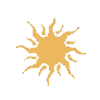
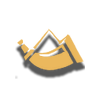
Deck builder: each card once with its count, and a Weather tab
As in The Witcher 3's deck builder:
- each card shows once, with an "x2" count: the copies in the deck, or in
  the collection the copies left to add. A card whose copies are all in
  the deck leaves the collection, so a hero already in the deck is no
  longer offered. The collection follows every deck edit, and neither
  list jumps back to the top after one.
- the weather cards get a tab of their own (the sun icon), before the
  other special cards (now under a horn icon, from The Witcher 3's horn
  art). The seventh tab is made from the specials' tab at start.
The autoplay checks the counts, the hero no longer offered, both tabs and
the 10-special limit through real clicks.

Changed region(s): [[0.15, 0.18, 0.87, 0.87], [0.15, 0.75, 0.18, 0.78]]

diff --git a/GwentCardGame/Assets/Scripts/DeckEdit/CollectionManager.cs b/GwentCardGame/Assets/Scripts/DeckEdit/CollectionManager.cs
@@ -4,6 +4,7 @@ using System.Collections.Generic;
 using Gwent.Rules;
 using TMPro;
 using UnityEngine;
+using UnityEngine.Events;
 using UnityEngine.UI;
 
 public class CollectionManager : MonoBehaviour
@@ -40,8 +41,13 @@ public class CollectionManager : MonoBehaviour
 
     public MiddleManager middleManager;
 
+    // The Witcher 3's filters: all cards, close, ranged, siege, heroes, weather, special cards
+    public const int WeatherTab = 5;
+    public const int SpecialTab = 6;
+
     IEnumerator Start()
     {
+        AddWeatherTab();
         ClearCardsArea();
         // DeckController loads everything in Awake; this only guards against a disabled controller
         yield return new WaitUntil(() => deckController.IsReady);
@@ -99,7 +105,11 @@ public class CollectionManager : MonoBehaviour
                 subtitle.text = "Heroes";
                 selected_row = "heroes";
                 break;
-            case 5:
+            case WeatherTab:
+                subtitle.text = "Weather";
+                selected_row = "weather";
+                break;
+            case SpecialTab:
                 subtitle.text = "Specials";
                 selected_row = "specials";
                 break;
@@ -131,13 +141,24 @@ public class CollectionManager : MonoBehaviour
         cardsArea.transform.DetachChildren();
     }
 
+    // The Witcher 3 shows each card once, with its count: the copies in the deck, or in the collection the copies
+    // left to add (a card whose copies are all in the deck leaves the collection)
     private void SetCardsArea(List<Card> cards_list)
     {
         ClearCardsArea();
+        bool deck = transform.CompareTag("Player");
+        Dictionary<int, int> in_deck = new Dictionary<int, int>();
+        foreach (int id in deckController.my_deck.Cards)
+            in_deck[id] = in_deck.TryGetValue(id, out int copies) ? copies + 1 : 1;
+        HashSet<int> shown = new HashSet<int>();
         foreach (Card card in cards_list)
         {
             // Bovine defense force cannot be added to a deck (it is summoned by the Cow)
-            if (card._id == CardIds.BovineDefenseForce)
+            if (card._id == CardIds.BovineDefenseForce || !shown.Add(card._id))
+                continue;
+            in_deck.TryGetValue(card._id, out int used);
+            int count = deck ? used : DeckRules.MaxCopies(card) - used;
+            if (count <= 0)
                 continue;
 
             GameObject instantiatedCard = Instantiate(CCardPrefab);
@@ -154,7 +175,63 @@ public class CollectionManager : MonoBehaviour
 
             instantiatedCard.GetComponent<Image>().sprite = SpriteCache.Load("Cards/List/591x380/" + card._id);
             instantiatedCard.transform.SetParent(cardsArea.transform, false);
+            AddCountBadge(instantiatedCard.transform, count);
         }
+    }
+
+    // "x2" near the bottom of the card, as in The Witcher 3: at the right of the art, just above the name strip
+    // (which it would cover on the left)
+    public const string CountBadge = "Count";
+
+    private static void AddCountBadge(Transform card, int count)
+    {
+        UITheme theme = UITheme.Current;
+        RectTransform badge = UIKit.Rect(CountBadge, card).Place(new Vector2(1, 0), new Vector2(-8, 70), new Vector2(50, 28), new Vector2(1, 0));
+        Image back = badge.gameObject.AddComponent<Image>();
+        back.sprite = theme.pill;
+        back.type = Image.Type.Sliced;
+        back.color = new Color(0.07f, 0.05f, 0.03f, 0.88f);
+        back.raycastTarget = false;
+        TextMeshProUGUI text = UIKit.Text(badge, "x" + count, UIKit.TextStyle.Caption, TextAlignmentOptions.Center);
+        text.rectTransform.Stretch(0, 0, 0, 1);
+        text.fontSize = 21;
+        text.color = theme.goldBright;
+        text.raycastTarget = false;
+    }
+
+    // The scene has six tabs, the specials last; The Witcher 3 gives the weather cards a tab of their own, before
+    // the specials. The specials' tab is copied for it, and the seven tabs share the menu's width.
+    private void AddWeatherTab()
+    {
+        if (currentSprites.Count > SpecialTab)
+            return;
+        Image special = currentSprites[WeatherTab];
+        Image weather = Instantiate(special.gameObject, special.transform.parent).GetComponent<Image>();
+        weather.name = "weatherBtn";
+        weather.transform.SetSiblingIndex(special.transform.GetSiblingIndex());
+        currentSprites.Insert(WeatherTab, weather);
+        idleSprites.Insert(WeatherTab, SpriteCache.Load("DeckEdit/CardsView/Menu/idle/weather"));
+        selectedSprites.Insert(WeatherTab, SpriteCache.Load("DeckEdit/CardsView/Menu/selected/weather"));
+        weather.sprite = idleSprites[WeatherTab];
+        OnClickSelects(weather.GetComponent<Button>(), WeatherTab);
+        OnClickSelects(special.GetComponent<Button>(), SpecialTab);
+
+        RectTransform first = (RectTransform)currentSprites[0].transform;
+        float left = first.anchoredPosition.x, right = ((RectTransform)special.transform).anchoredPosition.x;
+        for (int i = 0; i < currentSprites.Count; i++)
+        {
+            RectTransform tab = (RectTransform)currentSprites[i].transform;
+            tab.anchoredPosition = new Vector2(Mathf.Lerp(left, right, i / (float)(currentSprites.Count - 1)), tab.anchoredPosition.y);
+            tab.sizeDelta = new Vector2(90, 90);
+        }
+    }
+
+    private void OnClickSelects(Button button, int tab)
+    {
+        for (int i = 0; i < button.onClick.GetPersistentEventCount(); i++)
+            button.onClick.SetPersistentListenerState(i, UnityEventCallState.Off);
+        button.onClick.RemoveAllListeners();
+        button.onClick.AddListener(() => HandleClick(tab));
     }
 
     private void ResetScrolling()
@@ -171,8 +248,9 @@ public class CollectionManager : MonoBehaviour
 
         switch (selected_row)
         {
+            case "weather":
             case "specials":
-                List<Card> specials_list = deckController.GetSpecialCards(CardsToDisplay);
+                List<Card> specials_list = deckController.GetSpecialCards(CardsToDisplay).FindAll(card => (card.row == Rows.Weather) == (selected_row == "weather"));
                 specials_list.Sort((a, b) => a._id.CompareTo(b._id));
                 SetCardsArea(specials_list);
                 break;
@@ -273,6 +351,14 @@ public class CollectionManager : MonoBehaviour
         }
     }
 
+    // The collection counts the copies left to add: it follows the deck (where it is scrolled to stays)
+    private void RefreshCollection()
+    {
+        foreach (CollectionManager collection in FindObjectsByType<CollectionManager>())
+            if (collection != this && collection.CardsToDisplay != null)
+                collection.Select(collection.selectedTab, false);
+    }
+
     // Reference: Toggle On Value Changed
     public void ToggleNeutrals()
     {
@@ -288,6 +374,7 @@ public class CollectionManager : MonoBehaviour
         deckController.currentDeckPath = selectedPath;
         LoadFromDeck();
         Select(selectedTab);
+        RefreshCollection();
 
         // A valid selected deck becomes the battle deck
         if (select_for_battle)
@@ -298,7 +385,8 @@ public class CollectionManager : MonoBehaviour
     public void OnDeckEdit()
     {
         LoadFromDeck();
-        Select(selectedTab);
+        Select(selectedTab, false);
+        RefreshCollection();
         middleManager.InitializeDeck();
 
         // Save to the current deck

diff --git a/GwentCardGame/Assets/Editor/GwentAutoplay.cs b/GwentCardGame/Assets/Editor/GwentAutoplay.cs
@@ -703,19 +703,17 @@ public static class GwentAutoplay
         }
 
         // A valid Monsters deck in the deck folder, the battle deck while the builder is checked: every hero it can
-        // hold (a second copy of the first hero shown is refused), the strongest other units (the weakest ones stay in
-        // the collection, to be added), and 10 specials with room left for the first one (it is refused for the
-        // 10-special limit, not for its copies)
+        // hold (the collection then offers none), the strongest other units (the weakest ones stay in the collection,
+        // to be added), and 10 specials, in the order of their ids, as many copies of each as exist (an 11th is
+        // refused for the 10-special limit)
         private string CreateTestDeck(CardDatabase db)
         {
             string faction = Factions.Monsters;
             List<Card> units = db.All.Where(card => card.IsUnit && card._id != CardIds.BovineDefenseForce && (card.faction == faction || card.faction == Factions.Neutral)).ToList();
             List<int> cards = units.Where(card => card.unique).Select(card => card._id).ToList();
             cards.AddRange(units.Where(card => !card.unique).OrderByDescending(card => card.strength).ThenBy(card => card._id).Take(DeckRules.MinUnits).Select(card => card._id));
-            List<Card> specials = db.All.Where(card => card.IsSpecial).OrderBy(card => card._id).ToList();
-            int special_count = 1;
-            cards.Add(specials[0]._id);
-            foreach (Card special in specials.Skip(1))
+            int special_count = 0;
+            foreach (Card special in db.All.Where(card => card.IsSpecial).OrderBy(card => card._id))
                 for (int i = 0; i < DeckRules.MaxCopies(special) && special_count < DeckRules.MaxSpecials; i++, special_count++)
                     cards.Add(special._id);
 
@@ -1435,17 +1433,37 @@ public static class GwentAutoplay
             Func<int> saved = () => { Deck deck = DeckStorage.Load(deck_path); return deck != null ? deck.Cards.Count : -1; };
             int before = 0;
 
-            // Add, then two refusals: a second copy of a hero, an 11th special
-            At(0.1, () => before = count());
-            DoubleClickAt(0.4, AddableCard);
-            At(1.0, () => check(count() == before + 1 && saved() == before + 1, "double-clicking a card in the collection adds it to the deck (and saves it)"));
+            // Each card once, with its count (The Witcher 3): the copies in the deck, the copies left in the collection
+            int added = -1;
+            At(0.1, () =>
+            {
+                before = count();
+                int kinds = dc.my_deck.Cards.Distinct().Count(id => dc.deckCollection.toggleBtn.isOn || dc.Db.Get(id).faction != Factions.Neutral);
+                check(Shown(dc.deckCollection).Count == kinds && BadgeOf(dc.deckCollection, CardIds.BitingFrost) == 3,
+                    "the deck shows each card once with its count (Biting Frost x" + BadgeOf(dc.deckCollection, CardIds.BitingFrost) + ")");
+            });
+            // Add, then two cards that cannot be added: a hero already in the deck (not offered), an 11th special
+            DoubleClickAt(0.4, () =>
+            {
+                Vector2 at = AddableCard();
+                added = addTarget != null ? addTarget.GetComponent<CardStats>()._id : -1;
+                return at;
+            });
+            At(1.0, () =>
+            {
+                check(count() == before + 1 && saved() == before + 1, "double-clicking a card in the collection adds it to the deck (and saves it)");
+                int left = added >= 0 ? DeckRules.MaxCopies(dc.Db.Get(added)) - 1 : -1;
+                check(added >= 0 && (left == 0 ? !Shown(browse).Contains(added) : BadgeOf(browse, added) == left), "the collection then counts one copy fewer (" + left + " left)");
+            });
             Click(1.3, () => ScreenPoint(browse.currentSprites[4].transform));
-            DoubleClickAt(1.8, FirstCardOf(browse));
-            At(2.4, () => check(count() == before + 1 && ToastText().Contains("only one copy"), "a hero already in the deck is refused (\"" + ToastText() + "\")"));
-            Click(2.7, () => ScreenPoint(browse.currentSprites[5].transform));
-            DoubleClickAt(3.2, FirstCardOf(browse));
-            At(3.8, () => check(count() == before + 1 && ToastText().Contains("special cards"), "an 11th special card is refused (\"" + ToastText() + "\")"));
-            Click(4.1, () => ScreenPoint(browse.currentSprites[0].transform));
+            At(1.8, () => check(Shown(browse).Count == 0, "with every hero in the deck, the collection offers none (" + Shown(browse).Count + " shown)"));
+            Click(2.1, () => ScreenPoint(browse.currentSprites[CollectionManager.WeatherTab].transform));
+            At(2.6, () => check(Shown(browse).Count > 0 && Shown(browse).All(id => dc.Db.Get(id).row == Rows.Weather), "the Weather tab lists the weather cards only"));
+            Click(2.9, () => ScreenPoint(browse.currentSprites[CollectionManager.SpecialTab].transform));
+            DoubleClickAt(3.4, FirstCardOf(browse));
+            At(4.0, () => check(count() == before + 1 && ToastText().Contains("special cards") && Shown(browse).All(id => dc.Db.Get(id).IsSpecial && dc.Db.Get(id).row != Rows.Weather),
+                "the Specials tab lists the other special cards, and an 11th special card is refused (\"" + ToastText() + "\")"));
+            Click(4.3, () => ScreenPoint(browse.currentSprites[0].transform));
 
             // Remove from the deck's list
             DoubleClickAt(4.6, FirstCardOf(dc.deckCollection));
@@ -1526,6 +1544,29 @@ public static class GwentAutoplay
                 && dc.middleManager.myPaths.All(p => DeckStorage.SamePath(Path.GetDirectoryName(p), DeckStorage.FactionFolder(faction)));
         }
 
+        // The card ids a card list shows, and the count on one of them (-1 when not shown)
+        private static List<int> Shown(CollectionManager collection)
+        {
+            List<int> ids = new List<int>();
+            foreach (Transform card in collection.cardsArea.transform)
+                ids.Add(card.GetComponent<CardStats>()._id);
+            return ids;
+        }
+
+        private static int BadgeOf(CollectionManager collection, int id)
+        {
+            foreach (Transform card in collection.cardsArea.transform)
+                if (card.GetComponent<CardStats>()._id == id)
+                {
+                    Transform badge = card.Find(CollectionManager.CountBadge);
+                    int count;
+                    return badge != null && int.TryParse(badge.GetComponentInChildren<TextMeshProUGUI>().text.TrimStart('x'), out count) ? count : -1;
+                }
+            return -1;
+        }
+
+        private Transform addTarget;
+
         // One of the collection's first cards the deck has room for (not a special: their limit is checked apart)
         private Vector2 AddableCard()
         {
@@ -1540,6 +1581,7 @@ public static class GwentAutoplay
                     target = t;
             }
             check(target != null, "the collection's first cards include one the deck has room for");
+            addTarget = target;
             return target != null ? ScreenPoint(target) : Vector2.zero;
         }
 
